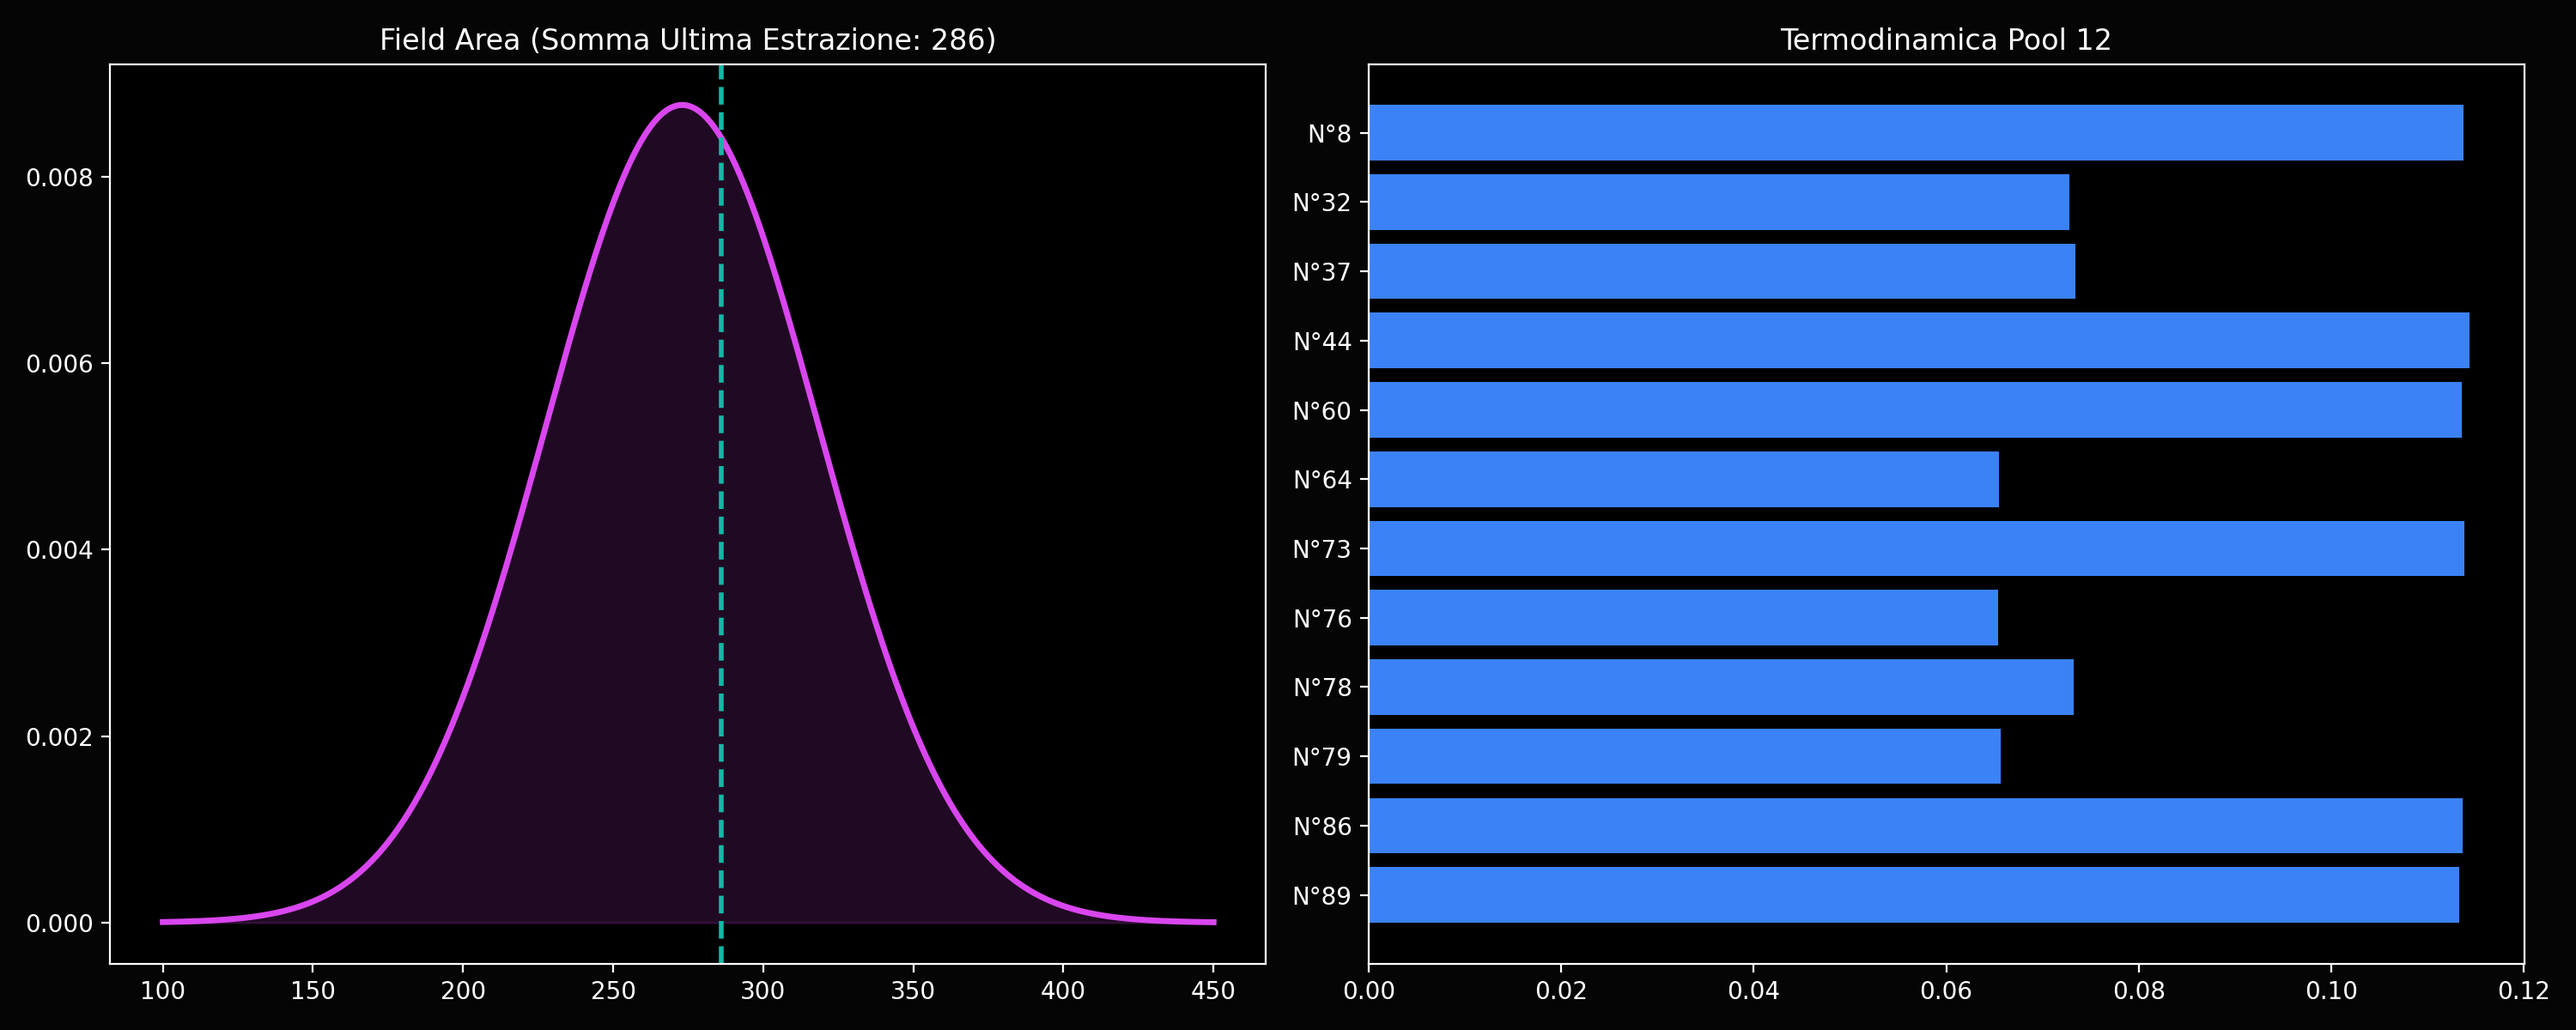
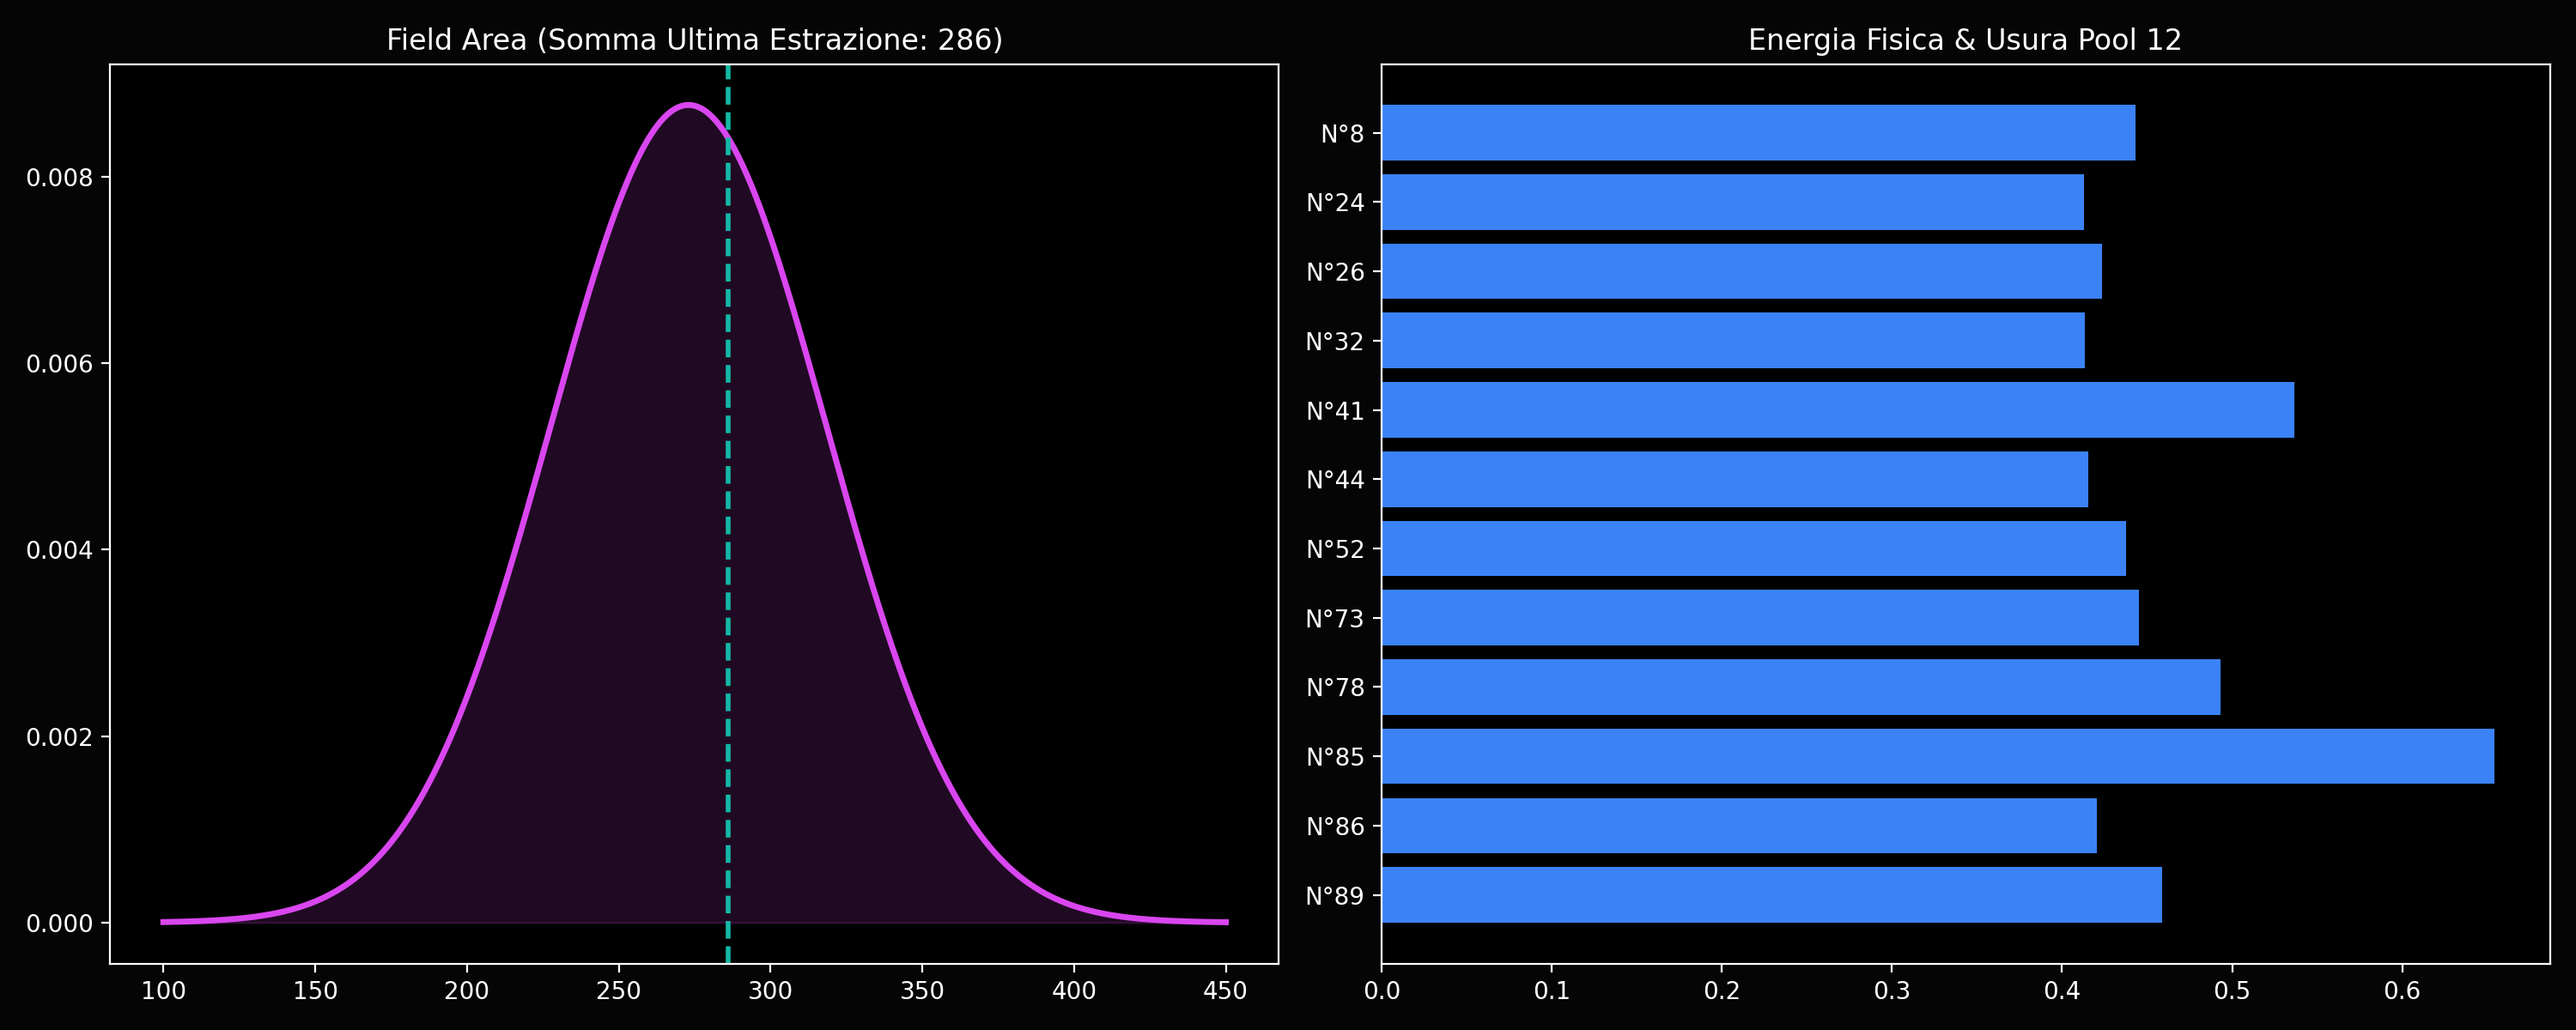
Auto-sync database e predizioni TITAN [skip ci]

diff --git a/index.html b/index.html
@@ -1,1 +1,1 @@
-<!DOCTYPE html><html lang="it"><head><meta charset="UTF-8"><meta name="viewport" content="width=device-width, initial-scale=1.0"><title>TITAN GOD MODE</title><style>body { background: #09090b; color: #f8fafc; font-family: sans-serif; padding: 2rem; } .container { max-width: 900px; margin: 0 auto; background: #18181b; padding: 2rem; border-radius: 12px; } h1 { color: #a855f7; text-align: center; } .data-box { display: flex; justify-content: space-between; background: #27272a; padding: 1.5rem; border-radius: 8px; margin-bottom: 2rem; } .data-item strong { font-size: 1.5rem; color: #34d399; } .pool { background: #27272a; padding: 1rem; border-radius: 8px; text-align: center; font-size: 1.2rem; color: #a855f7; margin-bottom: 2rem; border: 1px dashed #a855f7; } .card { background: #09090b; border-left: 5px solid #3b82f6; padding: 1.5rem; margin-bottom: 1rem; display: flex; justify-content: space-between; align-items: center; } .nums { font-size: 1.4rem; font-weight: bold; }</style></head><body><div class="container"><h1>TITAN God Mode Optimal</h1><div class="data-box"><div class="data-item">Concorso<br><strong>N° 144</strong></div><div class="data-item">Data<br><strong>09/09/2026</strong></div><div class="data-item">Jackpot<br><strong>€ 222.400.000</strong></div></div><h3 style="color: #a1a1aa;">Ultima Estrazione</h3><div class="pool" style="color: #34d399;">[23, 26, 41, 52, 59, 85] | Jolly: N/A | SuperStar: N/A</div><h3 style="color: #a1a1aa;">Dodecaedro A.I.</h3><div class="pool">[8, 32, 37, 44, 60, 64, 73, 76, 78, 79, 86, 89]</div><h3 style="color: #a1a1aa;">Matrice Ottimizzata</h3><div class="card"><div><div style="color: #3b82f6; font-size: 0.8rem;">TITAN 1</div><div class="nums">[32, 37, 44, 64, 76, 79]</div></div><div style="text-align: right; color: #a1a1aa;">Somma: 332<br>EV Score: <strong style="color: #fbbf24;">10.0 ⚡</strong></div></div><div class="card"><div><div style="color: #3b82f6; font-size: 0.8rem;">TITAN 2</div><div class="nums">[32, 37, 44, 64, 73, 76]</div></div><div style="text-align: right; color: #a1a1aa;">Somma: 326<br>EV Score: <strong style="color: #fbbf24;">10.0 ⚡</strong></div></div><div class="card"><div><div style="color: #3b82f6; font-size: 0.8rem;">TITAN 3</div><div class="nums">[32, 37, 44, 60, 76, 79]</div></div><div style="text-align: right; color: #a1a1aa;">Somma: 328<br>EV Score: <strong style="color: #fbbf24;">10.0 ⚡</strong></div></div><div class="card"><div><div style="color: #3b82f6; font-size: 0.8rem;">TITAN 4</div><div class="nums">[32, 37, 44, 73, 76, 78]</div></div><div style="text-align: right; color: #a1a1aa;">Somma: 340<br>EV Score: <strong style="color: #fbbf24;">10.0 ⚡</strong></div></div></div></body></html>
+<!DOCTYPE html><html lang="it"><head><meta charset="UTF-8"><meta name="viewport" content="width=device-width, initial-scale=1.0"><title>TITAN GOD MODE</title><style>body { background: #09090b; color: #f8fafc; font-family: sans-serif; padding: 2rem; } .container { max-width: 900px; margin: 0 auto; background: #18181b; padding: 2rem; border-radius: 12px; } h1 { color: #a855f7; text-align: center; } .data-box { display: flex; justify-content: space-between; background: #27272a; padding: 1.5rem; border-radius: 8px; margin-bottom: 2rem; } .data-item strong { font-size: 1.5rem; color: #34d399; } .pool { background: #27272a; padding: 1rem; border-radius: 8px; text-align: center; font-size: 1.2rem; color: #a855f7; margin-bottom: 2rem; border: 1px dashed #a855f7; } .card { background: #09090b; border-left: 5px solid #3b82f6; padding: 1.5rem; margin-bottom: 1rem; display: flex; justify-content: space-between; align-items: center; } .nums { font-size: 1.4rem; font-weight: bold; }</style></head><body><div class="container"><h1>TITAN God Mode Optimal</h1><div class="data-box"><div class="data-item">Concorso<br><strong>N° 144</strong></div><div class="data-item">Data<br><strong>09/09/2026</strong></div><div class="data-item">Jackpot<br><strong>€ 222.400.000</strong></div></div><h3 style="color: #a1a1aa;">Ultima Estrazione</h3><div class="pool" style="color: #34d399;">[23, 26, 41, 52, 59, 85] | Jolly: N/A | SuperStar: N/A</div><h3 style="color: #a1a1aa;">Dodecaedro A.I. (Fisica Venus)</h3><div class="pool">[8, 24, 26, 32, 41, 44, 52, 73, 78, 85, 86, 89]</div><h3 style="color: #a1a1aa;">Matrice Ottimizzata (924 Sestine)</h3><div class="card"><div><div style="color: #3b82f6; font-size: 0.8rem;">TITAN 1</div><div class="nums">[8, 24, 41, 44, 73, 85]</div></div><div style="text-align: right; color: #a1a1aa;">Somma: 275<br>EV Score: <strong style="color: #fbbf24;">10.0 ⚡</strong></div></div><div class="card"><div><div style="color: #3b82f6; font-size: 0.8rem;">TITAN 2</div><div class="nums">[8, 24, 26, 41, 86, 89]</div></div><div style="text-align: right; color: #a1a1aa;">Somma: 274<br>EV Score: <strong style="color: #fbbf24;">10.0 ⚡</strong></div></div><div class="card"><div><div style="color: #3b82f6; font-size: 0.8rem;">TITAN 3</div><div class="nums">[8, 24, 26, 44, 85, 89]</div></div><div style="text-align: right; color: #a1a1aa;">Somma: 276<br>EV Score: <strong style="color: #fbbf24;">10.0 ⚡</strong></div></div><div class="card"><div><div style="color: #3b82f6; font-size: 0.8rem;">TITAN 4</div><div class="nums">[8, 24, 32, 41, 85, 86]</div></div><div style="text-align: right; color: #a1a1aa;">Somma: 276<br>EV Score: <strong style="color: #fbbf24;">10.0 ⚡</strong></div></div></div></body></html>
